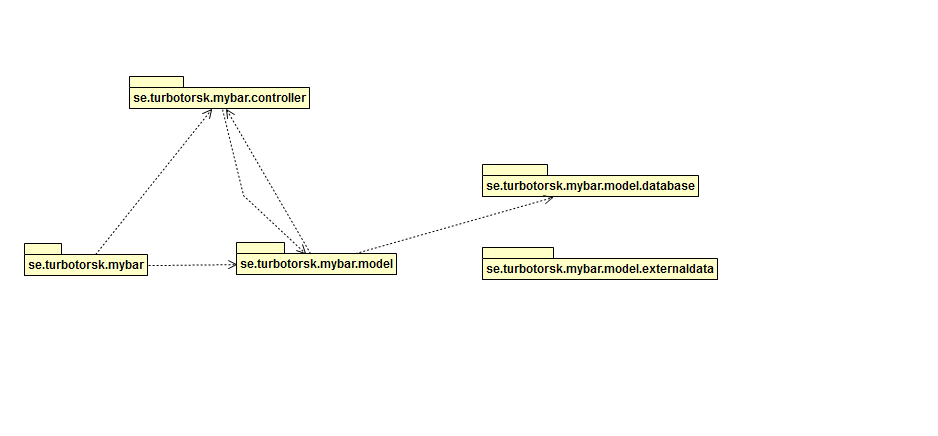
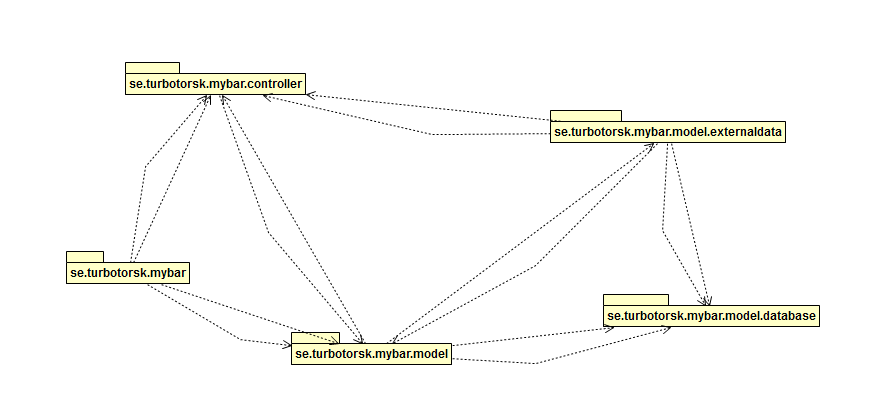
Deleted most of the violations in mybar-package

diff --git a/src/se/turbotorsk/mybar/MyBarActivity.java b/src/se/turbotorsk/mybar/MyBarActivity.java
@@ -29,7 +29,6 @@ OF THE POSSIBILITY OF SUCH DAMAGE.
 package se.turbotorsk.mybar;
 
 import se.turbotorsk.mybar.controller.Controller;
-import se.turbotorsk.mybar.model.Data;
 import android.app.ListActivity;
 import android.os.Bundle;
 import android.view.View;
@@ -40,9 +39,9 @@ import android.widget.ListView;
  */
 public class MyBarActivity extends ListActivity {
 
-	IngredientAdapter adapter;
+	private IngredientAdapter adapter;
 	// Variable is not used for now.
-	private static final byte UPDATE_LIST = 100;
+	static final byte UPDATE_LIST = 100;
 
 	@Override
 	public void onCreate(Bundle savedInstanceState) {

diff --git a/src/se/turbotorsk/mybar/AddIngredientActivity.java b/src/se/turbotorsk/mybar/AddIngredientActivity.java
@@ -29,9 +29,7 @@ OF THE POSSIBILITY OF SUCH DAMAGE.
 package se.turbotorsk.mybar;
 
 import se.turbotorsk.mybar.controller.Controller;
-import se.turbotorsk.mybar.model.Ingredient;
 import android.app.ListActivity;
-import android.graphics.Color;
 import android.os.Bundle;
 import android.view.View;
 import android.widget.ListView;
@@ -44,7 +42,7 @@ public class AddIngredientActivity extends ListActivity {
 	
 	private TextView text;
 	private IngredientAdapter adapter;
-	public static int save = -1;
+	private static int save = -1;
 	
 	@Override
 	public void onCreate(Bundle savedInstanceState) {

diff --git a/src/se/turbotorsk/mybar/SettingsActivity.java b/src/se/turbotorsk/mybar/SettingsActivity.java
@@ -57,8 +57,6 @@ public class SettingsActivity extends Activity {
 				Intent intent1 = new Intent(SettingsActivity.this,
 						Profiles.class);
 				startActivity(intent1);
-				Intent i = getIntent();
-				Bundle bundle = i.getExtras();
 				profile1.setText("home");
 			}
 		});
@@ -74,7 +72,7 @@ public class SettingsActivity extends Activity {
 	}
 
 	/**
-	 * This method handles what to happend when pressing a item in the
+	 * This method handles what to happens when pressing a item in the
 	 * options-menu.
 	 */
 	public boolean onOptionsItemSelected(MenuItem item) {

diff --git a/src/se/turbotorsk/mybar/AboutBox.java b/src/se/turbotorsk/mybar/AboutBox.java
@@ -45,7 +45,7 @@ import android.widget.TextView;
  * who made the application.
  */
 public class AboutBox {
-	static String versionName(Context context) {
+	private static String versionName(Context context) {
 		return "0.5";
 	}
 
@@ -66,7 +66,8 @@ public class AboutBox {
 		} catch (InflateException e) {
 			// Inflater can throw exception, unlikely but default to TextView if
 			// it occurs.
-			about = tvAbout = new TextView(callingActivity);
+			tvAbout = new TextView(callingActivity);
+			about = tvAbout;
 		}
 		
 		// Set the about text.

diff --git a/src/se/turbotorsk/mybar/CollectionActivity.java b/src/se/turbotorsk/mybar/CollectionActivity.java
@@ -29,7 +29,6 @@ OF THE POSSIBILITY OF SUCH DAMAGE.
 package se.turbotorsk.mybar;
 
 import se.turbotorsk.mybar.controller.Controller;
-import se.turbotorsk.mybar.model.Data;
 import android.app.ListActivity;
 import android.content.Intent;
 import android.os.Bundle;
@@ -47,7 +46,7 @@ import android.widget.ListView;
  */
 public class CollectionActivity extends ListActivity {
 
-	DrinkAdapter adapter;
+	private DrinkAdapter adapter;
 
 	@Override
 	public void onCreate(Bundle savedInstanceState) {

diff --git a/src/se/turbotorsk/mybar/MainActivity.java b/src/se/turbotorsk/mybar/MainActivity.java
@@ -28,8 +28,6 @@ OF THE POSSIBILITY OF SUCH DAMAGE.
 
 package se.turbotorsk.mybar;
 
-import se.turbotorsk.mybar.controller.Controller;
-import se.turbotorsk.mybar.model.Data;
 import android.app.TabActivity;
 import android.content.Intent;
 import android.os.Bundle;

diff --git a/src/se/turbotorsk/mybar/MyDrinksActivity.java b/src/se/turbotorsk/mybar/MyDrinksActivity.java
@@ -29,7 +29,6 @@ OF THE POSSIBILITY OF SUCH DAMAGE.
 package se.turbotorsk.mybar;
 
 import se.turbotorsk.mybar.controller.Controller;
-import se.turbotorsk.mybar.model.Data;
 import android.app.ListActivity;
 import android.content.Intent;
 import android.os.Bundle;

diff --git a/src/se/turbotorsk/mybar/MyFavorites.java b/src/se/turbotorsk/mybar/MyFavorites.java
@@ -29,7 +29,6 @@ OF THE POSSIBILITY OF SUCH DAMAGE.
 package se.turbotorsk.mybar;
 
 import se.turbotorsk.mybar.controller.Controller;
-import se.turbotorsk.mybar.model.Data;
 import android.app.ListActivity;
 import android.content.Intent;
 import android.os.Bundle;

diff --git a/src/se/turbotorsk/mybar/ViewDrinkActivity.java b/src/se/turbotorsk/mybar/ViewDrinkActivity.java
@@ -29,7 +29,6 @@ OF THE POSSIBILITY OF SUCH DAMAGE.
 package se.turbotorsk.mybar;
 
 import se.turbotorsk.mybar.controller.Controller;
-import se.turbotorsk.mybar.model.Data;
 import android.app.Activity;
 import android.os.Bundle;
 import android.view.View;

diff --git a/src/se/turbotorsk/mybar/Splash.java b/src/se/turbotorsk/mybar/Splash.java
@@ -38,7 +38,7 @@ import android.view.Window;
 
 public class Splash extends Activity {
 
-    private final int SPLASH_LENGHT = 1200;
+    private static final int SPLASH_LENGHT = 1200;
 
     @Override
     public void onCreate(Bundle savedInstanceState) {

diff --git a/src/se/turbotorsk/mybar/IngredientAdapter.java b/src/se/turbotorsk/mybar/IngredientAdapter.java
@@ -30,7 +30,6 @@ package se.turbotorsk.mybar;
 
 import java.util.LinkedList;
 
-import se.turbotorsk.mybar.controller.Controller;
 import se.turbotorsk.mybar.model.Ingredient;
 import android.content.Context;
 import android.graphics.Color;
